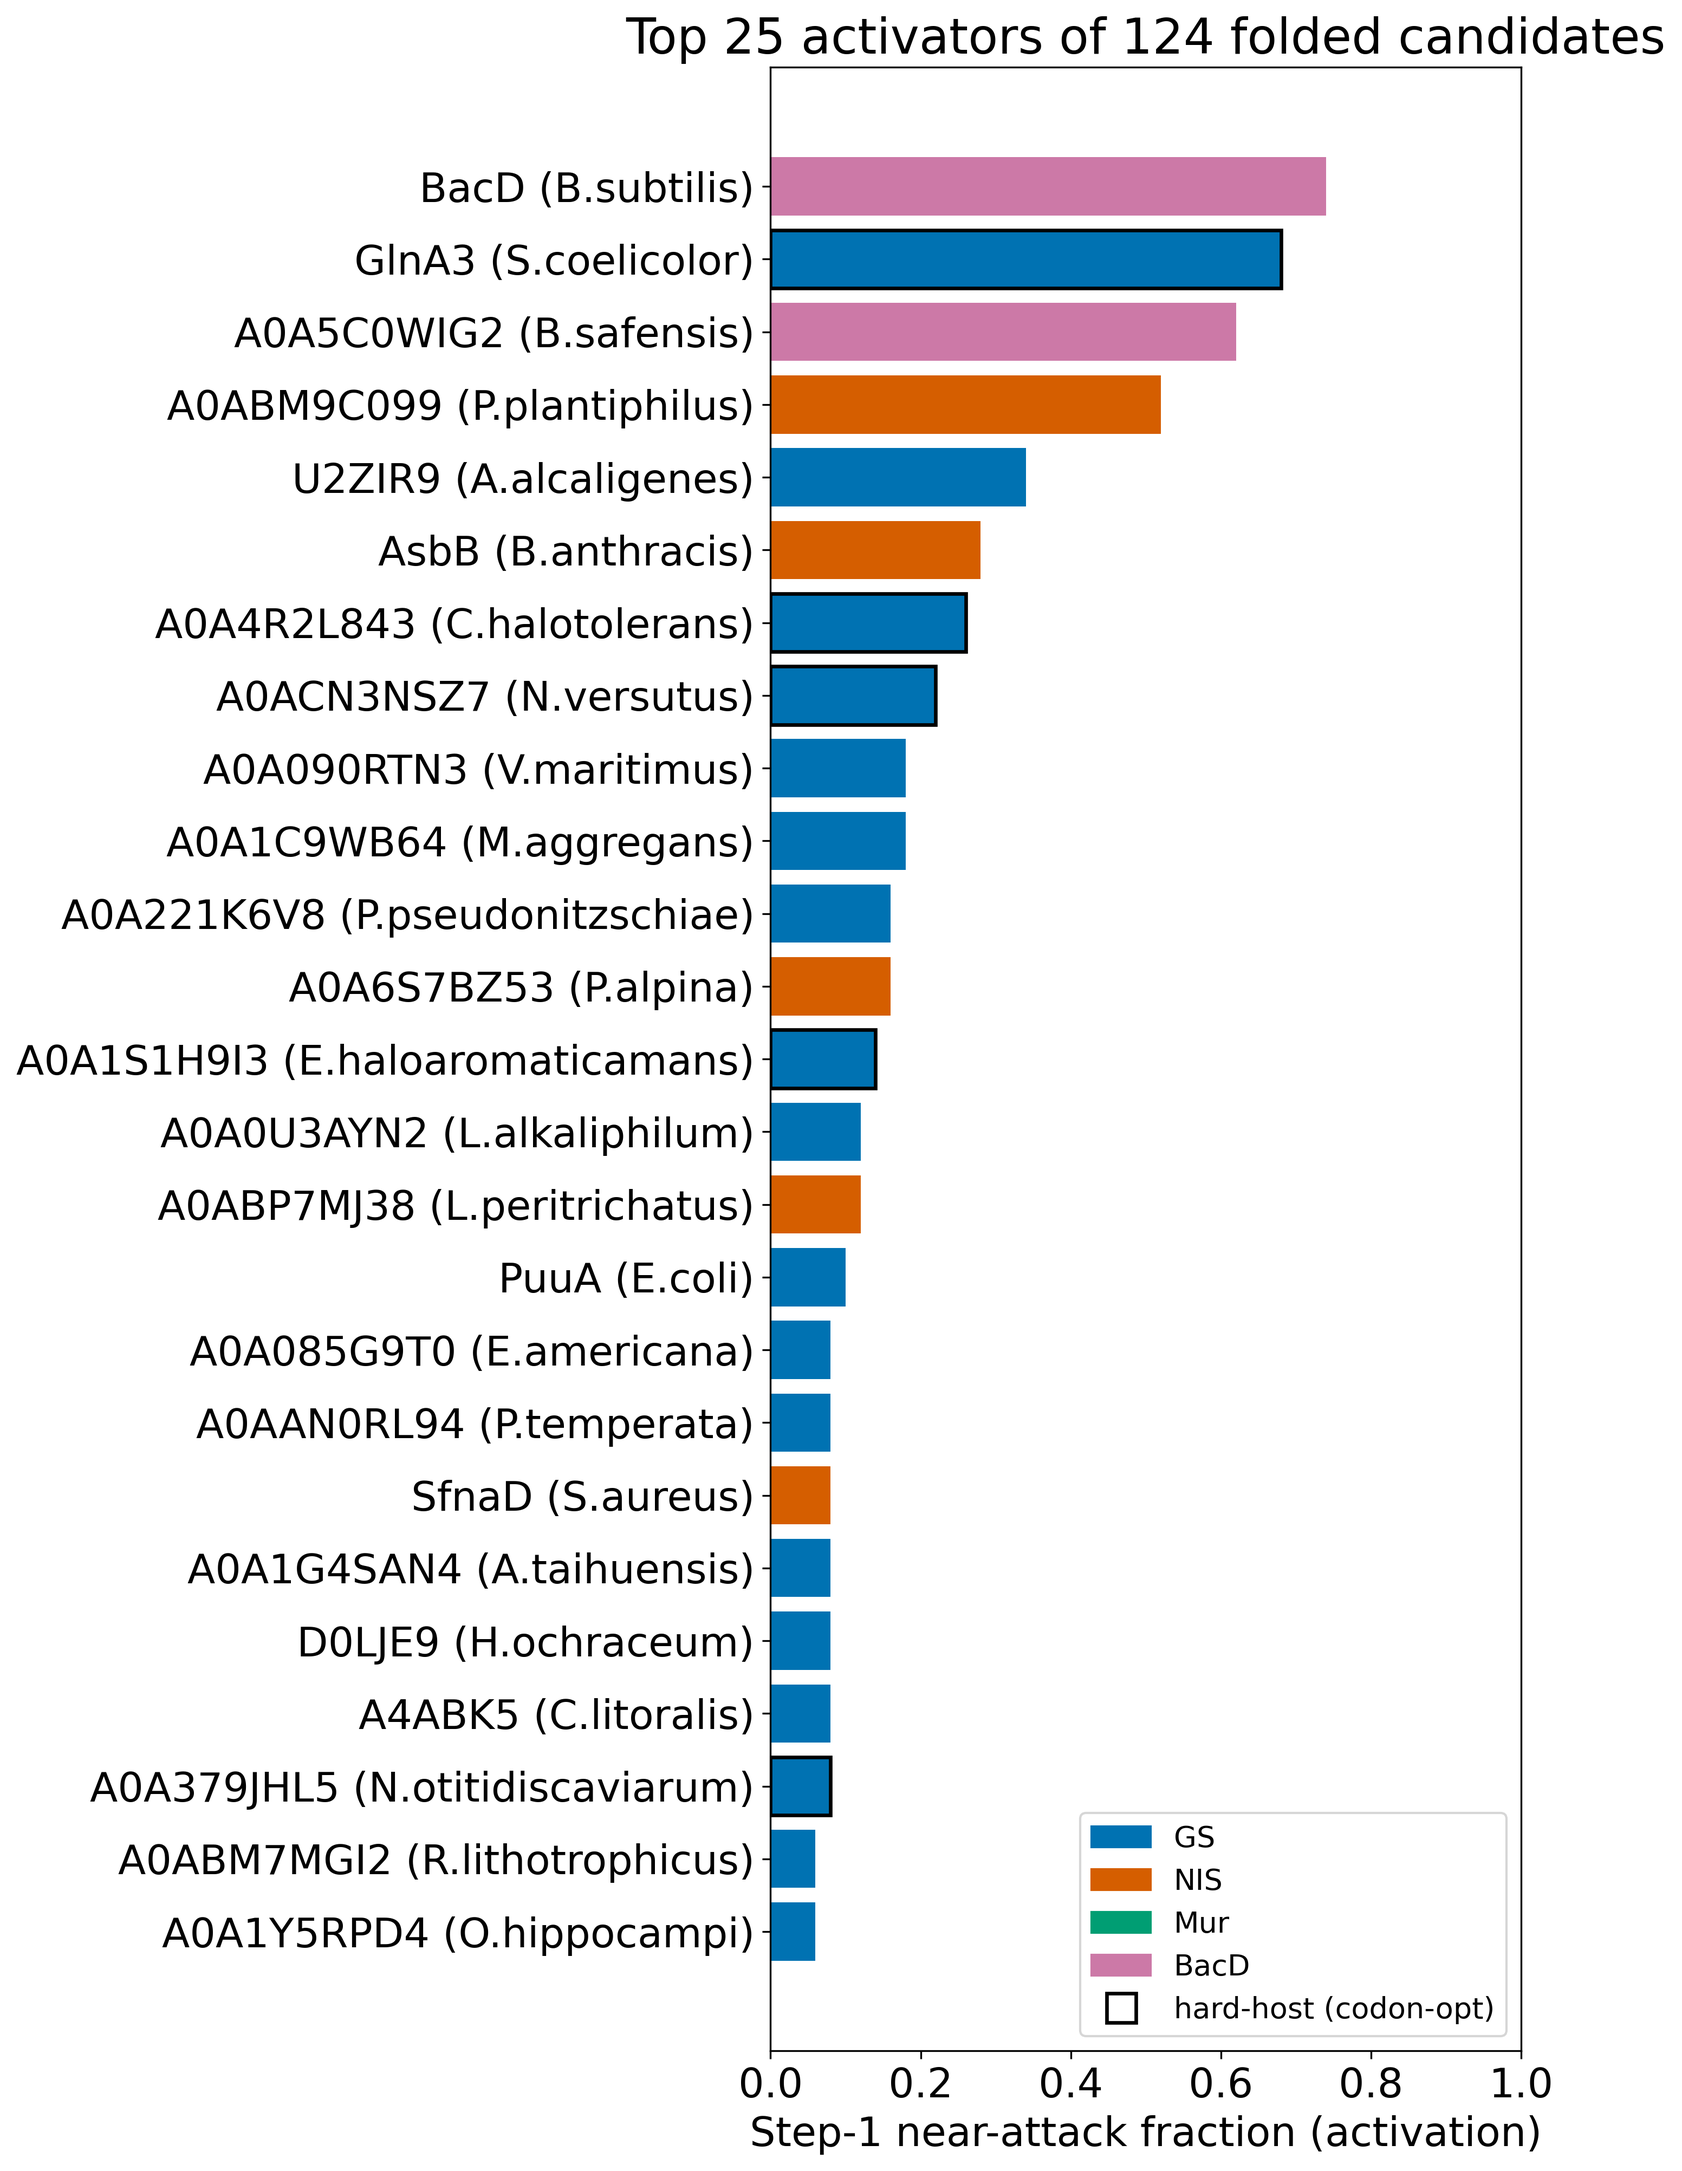
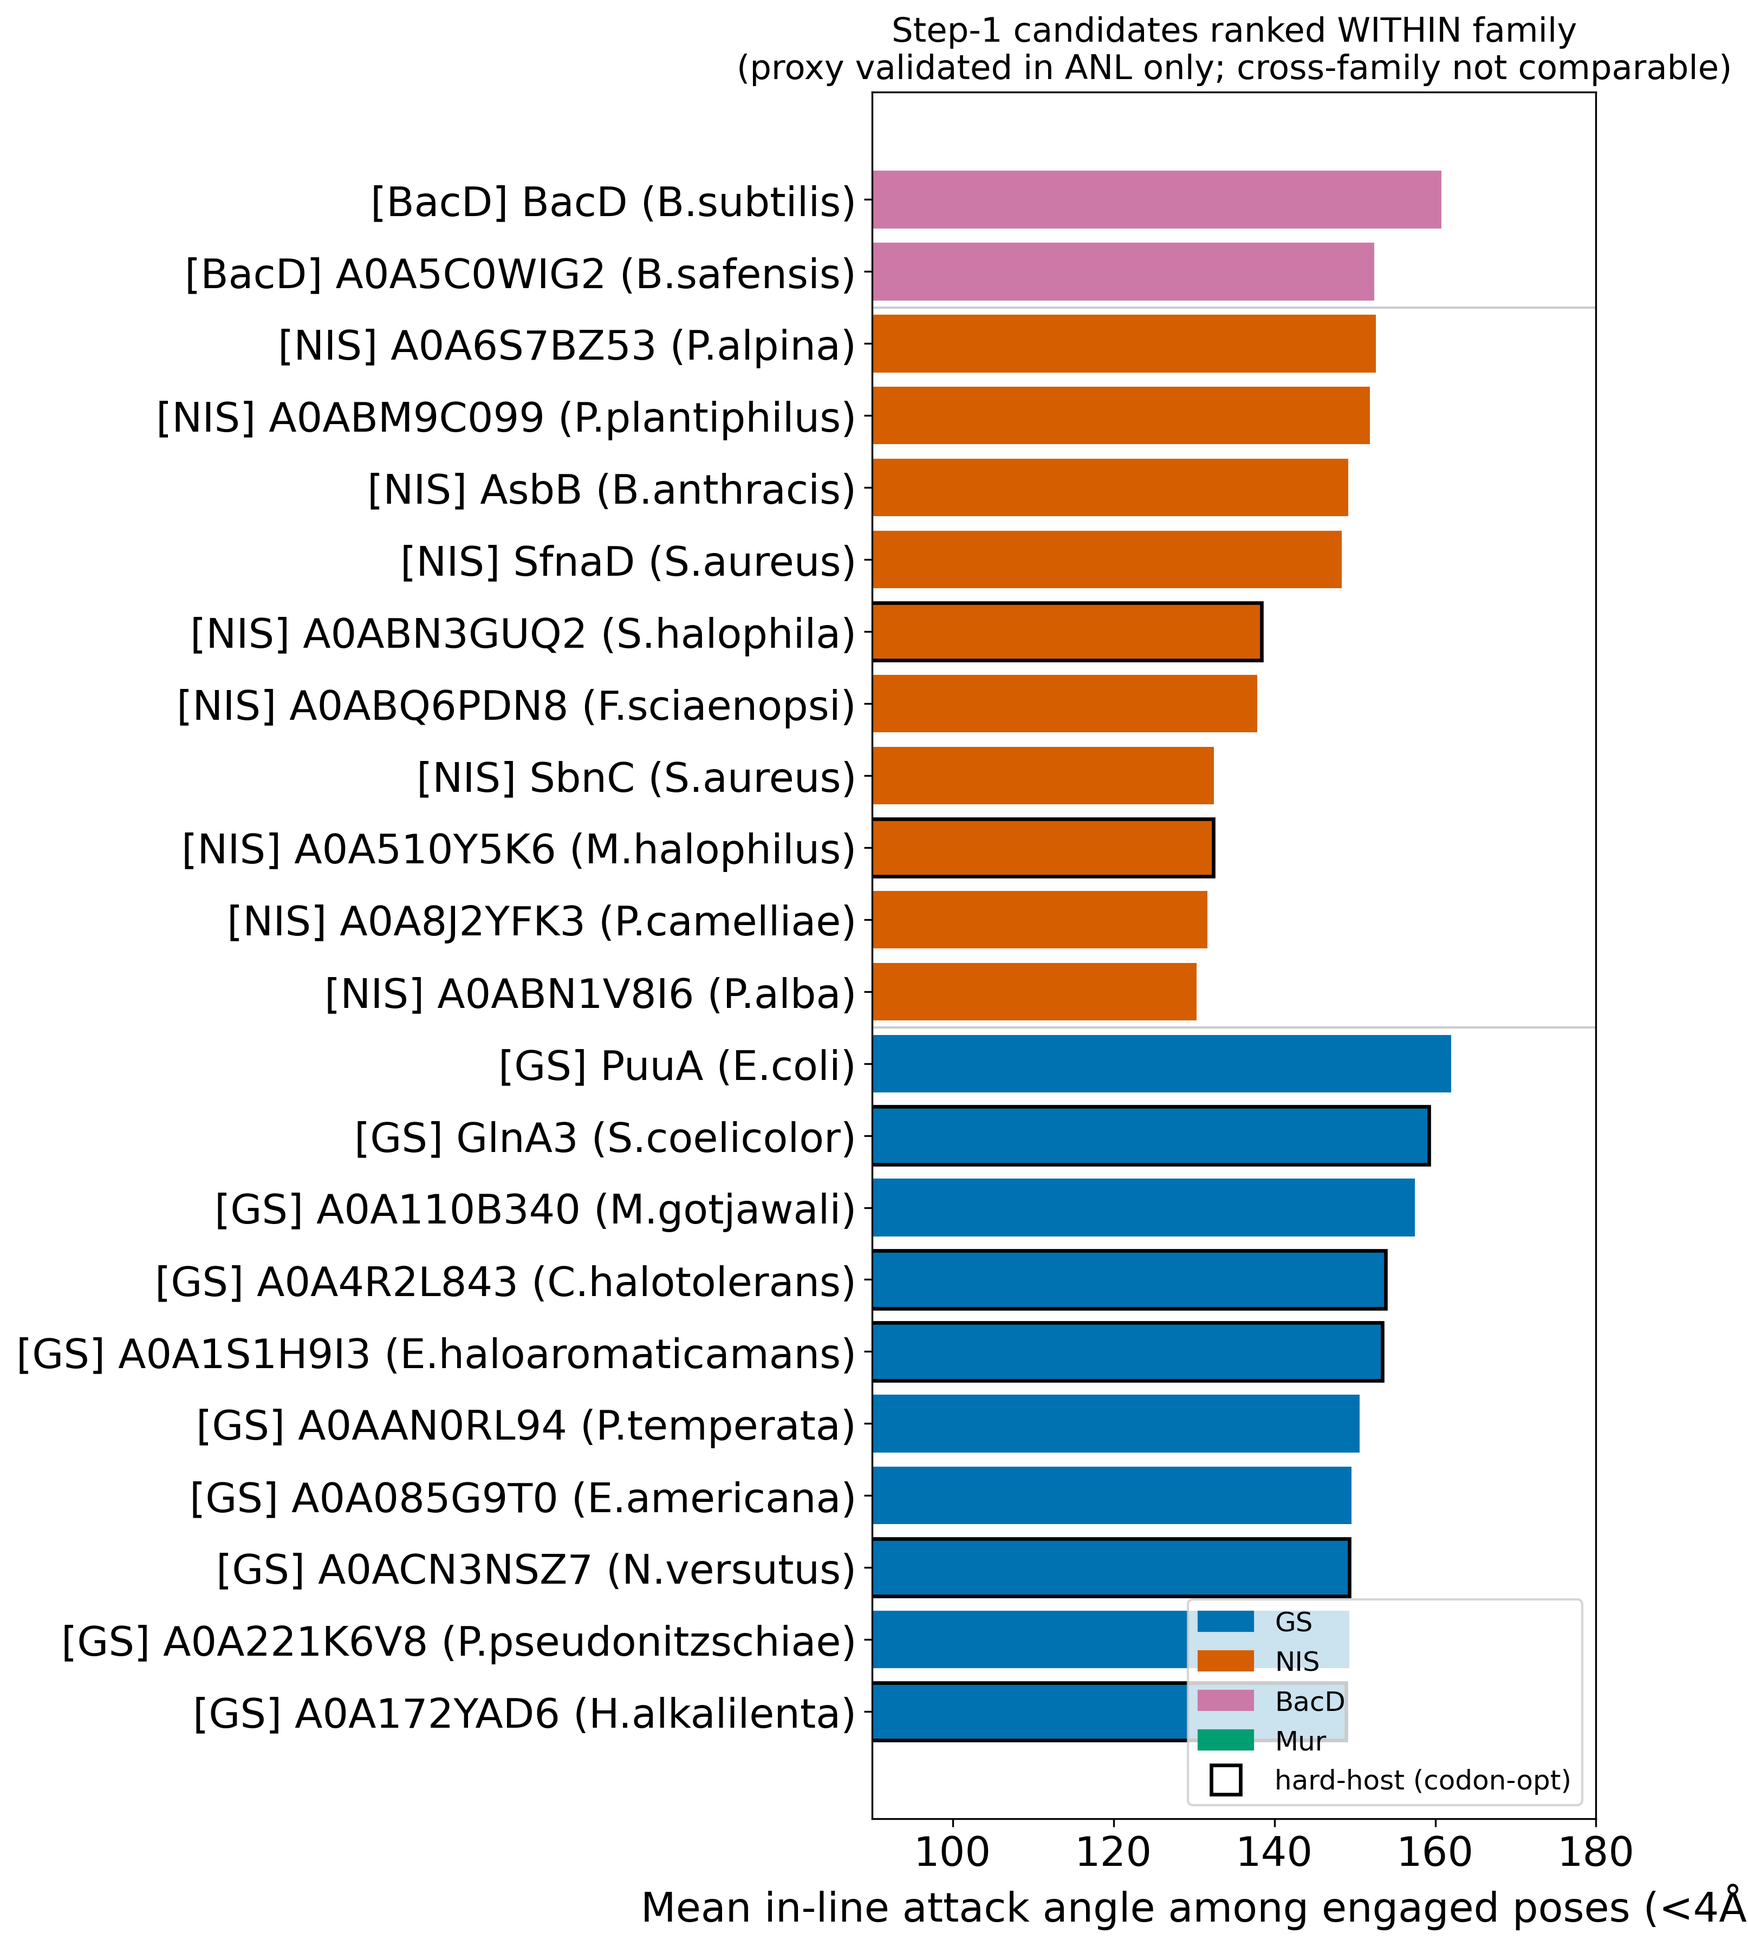
Rank step-1 by validated metric + within-family (transferability caveat)
Checked against the SfaB assay panel: the proximity-weighted attack angle A /
engaged-pose mean angle beats near-attack fraction for surfacing hits (3-active
AUROC 0.94, all 3 top yielders in top-10, vs 0.70 / 1-of-3). So ranking no longer
uses near-attack fraction; it switches to the manuscript candidate-workflow metric
(mean in-line angle among poses <4A; <5 retained = inconclusive).

Transferability: that validation is ANL/SfaB-only (adenylating, Pa); our pool is
mostly glutamine-synthetase superfamily (acyl-phosphate, Pg), a different fold and
mechanism. So the ranking is now stratified WITHIN family (GS vs GS, NIS vs NIS,
BacD vs BacD) -- never a cross-family leaderboard -- and the GS-heavy results are
hypothesis generation pending in-family activity validation. 41/124 conclusive
(GS 22, NIS 17, BacD 2); 83 inconclusive (adipate rarely <4A).

Changed region(s): [[0.0, 0.0, 0.9997, 0.9975], [0.8747, 0.8105, 0.906, 0.8416]]

diff --git a/rxnfp_clustering/query_amide_synthesis_reaction/amide_synthesis/evaluation/expanded_step1_ranking.py b/rxnfp_clustering/query_amide_synthesis_reaction/amide_synthesis/evaluation/expanded_step1_ranking.py
@@ -38,62 +38,98 @@ def org_short(organism):
     return (parts[0][0] + '.' + parts[1]) if len(parts) >= 2 else (organism or '?')[:12]
 
 
+import numpy as np
+
+# Per-run state dirs that carry per-pose geometry (distance_A, angle_deg) in done.json.
+POSE_RUNS = [EXP / 'campaign', EXP / 'campaign_hard', RES / 'top10_cofold/campaign']
+
+
+def pose_metrics(poses):
+    d = np.array([p['distance_A'] for p in poses], float)
+    a = np.array([p['angle_deg'] for p in poses], float)
+    inv = 1 / d
+    within = d < 4.0
+    return {
+        'weighted_attack_angle_deg': round(float((a * inv).sum() / inv.sum()), 1),  # A
+        'near_attack_fraction': round(float((within & (a > 150)).mean()), 3),
+        'min_distance_A': round(float(d.min()), 2),
+        'n_within_4A': int(within.sum()),
+        # Manuscript candidate workflow: mean in-line angle among poses within 4 A,
+        # reported only when >= 5 are retained; otherwise inconclusive.
+        'mean_angle_within_4A': round(float(a[within].mean()), 1) if within.sum() else 0.0,
+    }
+
+
 def collect():
     pool = {r['accession']: r for r in csv.DictReader((EXP / 'pool.tsv').open(), delimiter='\t')}
     geom = {}
-    # expanded runs
-    for run in ('campaign', 'campaign_hard'):
-        for p in (EXP / run / 'state').glob('*.done.json'):
+    for run in POSE_RUNS:
+        for p in (run / 'state').glob('*.done.json'):
             d = json.loads(p.read_text())
-            geom[d['accession']] = d
-    # reused references
-    if PANEL_GEOM.exists():
-        for r in csv.DictReader(PANEL_GEOM.open(), delimiter='\t'):
-            geom.setdefault(r['accession'], {'A_deg': float(r['A_deg']),
-                'near_attack_fraction': float(r['near_attack_fraction']),
-                'min_distance_A': float(r['min_distance_A']), 'Dh_A': float(r['Dh_A'])})
+            if 'poses' in d:
+                geom.setdefault(d['accession'], pose_metrics(d['poses']))
     rows = []
     for acc, g in geom.items():
         meta = pool.get(acc, {})
         rxn = meta.get('rxn_id', '')
         organism = meta.get('organism', '')
+        conclusive = g['n_within_4A'] >= 5
         rows.append({
             'accession': acc,
             'label': f"{GENE.get(acc, acc)} ({org_short(organism)})",
             'gene': GENE.get(acc, ''), 'rxn_id': rxn, 'struct_family': STRUCT.get(rxn, '?'),
             'organism': organism, 'expression': 'hard' if HARD.search(organism or '') else 'ok',
-            'status': meta.get('status', 'reuse'),
-            'identity_to_ref': meta.get('identity', ''),
-            'near_attack_fraction': round(float(g['near_attack_fraction']), 3),
-            'weighted_attack_angle_deg': round(float(g['A_deg']), 1),
-            'min_distance_A': round(float(g['min_distance_A']), 2),
+            'status': meta.get('status', 'reuse'), 'identity_to_ref': meta.get('identity', ''),
+            'candidate_angle_deg': g['mean_angle_within_4A'] if conclusive else '',
+            'conclusive': conclusive,
+            'weighted_attack_angle_deg': g['weighted_attack_angle_deg'],
+            'near_attack_fraction': g['near_attack_fraction'],
+            'n_within_4A': g['n_within_4A'], 'min_distance_A': g['min_distance_A'],
         })
-    rows.sort(key=lambda r: (-r['near_attack_fraction'], -r['weighted_attack_angle_deg']))
+    # Surface by the candidate-workflow angle (conclusive first, highest mean in-line
+    # angle among engaged poses). A and near-attack kept as context columns.
+    rows.sort(key=lambda r: (not r['conclusive'],
+                             -(r['candidate_angle_deg'] if r['conclusive'] else -1)))
     return rows
 
 
-def figure(rows, path, top=25):
+def figure(rows, path, per_family=10):
+    """Family-stratified: rank conclusive candidates WITHIN each structural family.
+
+    The proxy was validated within one superfamily (ANL/SfaB); cross-family
+    comparison is not calibrated, so families are shown in separate blocks and never
+    on a shared leaderboard.
+    """
     import matplotlib
     matplotlib.use('Agg')
     import matplotlib.pyplot as plt
     plt.rcParams.update({'font.size': 18, 'savefig.dpi': 300, 'figure.dpi': 300})
-    top_rows = rows[:top][::-1]
-    y = range(len(top_rows))
-    colours = [FAM_COLOUR.get(r['struct_family'], '#888888') for r in top_rows]
-    fig, ax = plt.subplots(figsize=(10, 0.46 * len(top_rows) + 2.2))
-    ax.barh(list(y), [r['near_attack_fraction'] for r in top_rows], color=colours,
-            edgecolor=['black' if r['expression'] == 'hard' else 'none' for r in top_rows],
-            linewidth=1.6)
-    ax.set_yticks(list(y))
-    ax.set_yticklabels([r['label'] for r in top_rows])
-    ax.set_xlabel('Step-1 near-attack fraction (activation)')
-    ax.set_xlim(0, 1)
-    ax.set_title(f'Top {len(top_rows)} activators of {len(rows)} folded candidates')
-    handles = [plt.Rectangle((0, 0), 1, 1, color=c) for c in FAM_COLOUR.values()]
-    handles.append(plt.Line2D([], [], marker='s', ls='', mfc='white', mec='black', mew=1.6,
-                              markersize=13))
-    ax.legend(handles, list(FAM_COLOUR) + ['hard-host (codon-opt)'], loc='lower right',
-              fontsize=13)
+
+    labels, values, colours, edges, sep = [], [], [], [], []
+    for fam in ('GS', 'NIS', 'BacD', 'Mur'):
+        fam_rows = [r for r in rows if r['struct_family'] == fam and r['conclusive']]
+        fam_rows = sorted(fam_rows, key=lambda r: r['candidate_angle_deg'])[-per_family:]
+        if not fam_rows:
+            continue
+        sep.append(len(labels) - 0.5)
+        for r in fam_rows:
+            labels.append(f"[{fam}] {r['label']}")
+            values.append(r['candidate_angle_deg'])
+            colours.append(FAM_COLOUR[fam])
+            edges.append('black' if r['expression'] == 'hard' else 'none')
+    fig, ax = plt.subplots(figsize=(10.5, 0.46 * len(labels) + 2.2))
+    ax.barh(range(len(labels)), values, color=colours, edgecolor=edges, linewidth=1.6)
+    ax.set_yticks(range(len(labels))); ax.set_yticklabels(labels)
+    for s in sep[1:]:
+        ax.axhline(s, color='#cccccc', lw=1)
+    ax.set_xlabel('Mean in-line attack angle among engaged poses (<4Å) (°)')
+    ax.set_xlim(90, 180)
+    ax.set_title('Step-1 candidates ranked WITHIN family\n(proxy validated in ANL only; '
+                 'cross-family not comparable)', fontsize=15)
+    handles = [plt.Rectangle((0, 0), 1, 1, color=FAM_COLOUR[f]) for f in ('GS', 'NIS', 'BacD', 'Mur')]
+    handles.append(plt.Line2D([], [], marker='s', ls='', mfc='white', mec='black', mew=1.6, markersize=13))
+    ax.legend(handles, ['GS', 'NIS', 'BacD', 'Mur', 'hard-host (codon-opt)'],
+              loc='lower right', fontsize=12)
     fig.tight_layout(); fig.savefig(path, bbox_inches='tight'); plt.close(fig)
 
 
@@ -103,12 +139,18 @@ def main():
         w = csv.DictWriter(h, fieldnames=list(rows[0]), delimiter='\t')
         w.writeheader(); w.writerows(rows)
     figure(rows, EXP / 'step1_pool_ranking.png')
-    hits = [r for r in rows if r['near_attack_fraction'] >= 0.3]
-    print(f'folded so far: {len(rows)} candidates')
-    print(f'strong activators (near-attack >= 0.30): {len(hits)}')
-    for r in rows[:12]:
-        print(f"  {r['near_attack_fraction']:.2f}  {r['label']:28s} {r['struct_family']:4s} "
-              f"{r['status']:12s} {'HARD' if r['expression']=='hard' else ''}")
+    conc = [r for r in rows if r['conclusive']]
+    import collections
+    print(f'folded: {len(rows)} candidates; conclusive (>=5 poses <4A): {len(conc)}')
+    print('conclusive by family:', dict(collections.Counter(r['struct_family'] for r in conc)))
+    for fam in ('GS', 'NIS', 'BacD', 'Mur'):
+        fr = sorted([r for r in conc if r['struct_family'] == fam],
+                    key=lambda r: -r['candidate_angle_deg'])[:5]
+        if fr:
+            print(f'  -- {fam} (within-family top) --')
+            for r in fr:
+                print(f"    angle={r['candidate_angle_deg']:5.1f}  na={r['near_attack_fraction']:.2f}  "
+                      f"{r['label']:30s} {r['status']:12s} {'HARD' if r['expression']=='hard' else ''}")
     return 0
 
 

diff --git a/rxnfp_clustering/query_amide_synthesis_reaction/results/top10_cofold_expanded/STATUS.md b/rxnfp_clustering/query_amide_synthesis_reaction/results/top10_cofold_expanded/STATUS.md
@@ -45,6 +45,24 @@ Pool definition: `pool.tsv` (status column distinguishes the three increments).
   fresh `--out` dir per run, and verify MSA query==sequence before folding. The 86 set
   was verified clean; the 25 are being regenerated in `msa_hard/`.
 
+## Step-1 ranking metric + transferability (important)
+
+- **Metric:** candidate-workflow rule from the manuscript — distance-filter to poses
+  <4 Å, report the mean in-line attack angle among them, mark <5 retained poses
+  *inconclusive*. Verified on the SfaB assay panel the proximity-weighted attack angle
+  A (and this engaged-angle view) beats near-attack fraction for surfacing hits
+  (3-active AUROC 0.94 and all 3 top yielders in the top-10, vs 0.70 / 1-of-3). So we
+  do NOT rank by near-attack fraction; it is a context column.
+- **Transferability caveat:** that validation is within the **ANL/adenylating
+  superfamily** (SfaB homologs, Pα). Our expanded pool is **mostly glutamine-synthetase
+  superfamily** (GS; acyl-phosphate, Pγ) — a different fold and mechanism. The proxy's
+  calibration does NOT transfer across superfamilies. Therefore:
+  - Rank **within family** (GS vs GS, NIS vs NIS); never a cross-family leaderboard.
+  - Treat the GS-heavy results as **hypothesis generation**, not validated prediction,
+    pending in-family activity validation (GS enzymes with measured amide synthesis).
+- `step1_pool_ranking.{tsv,png}`: within-family ranking of the 41 conclusive candidates
+  (GS 22, NIS 17, BacD 2); 83 inconclusive (adipate rarely within 4 Å).
+
 ## Interpretation guardrails
 - Step-1 (activation) is the validated discriminator; step-2 (accommodation) is a
   steric feasibility screen, not an activity ranking.
